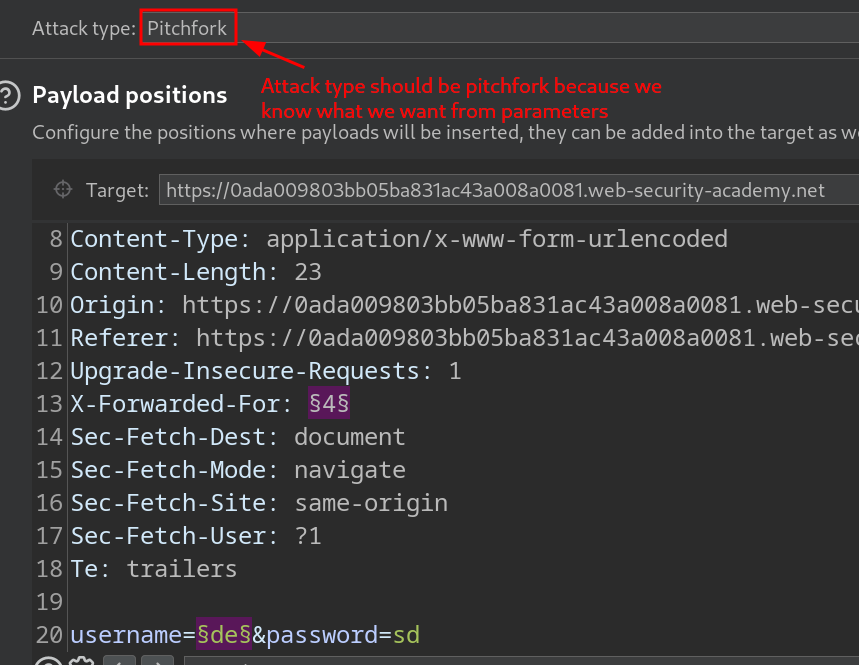
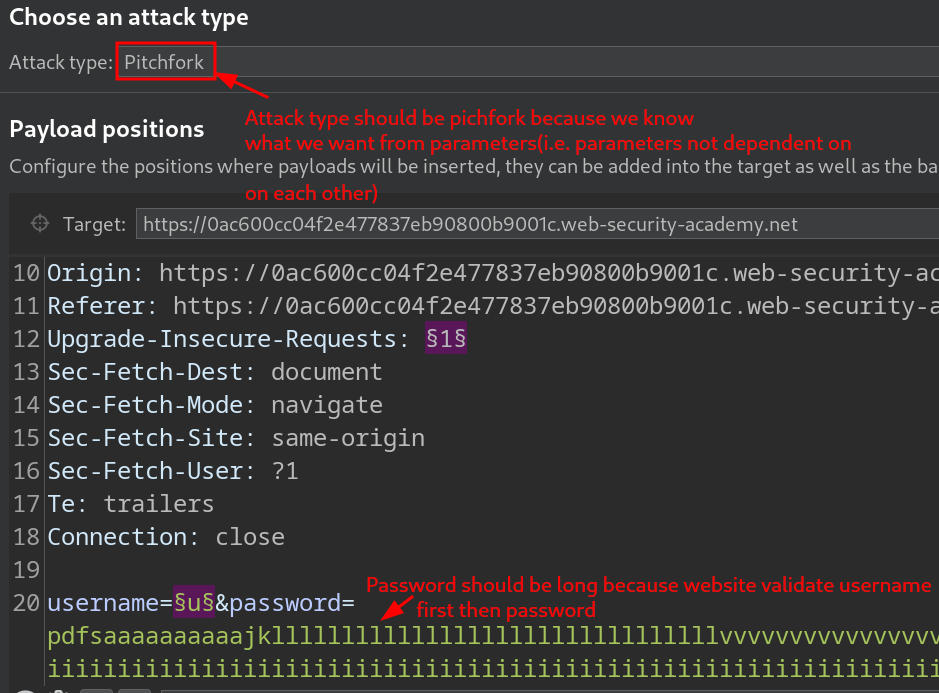
till the half of account lock(lab-5) done

Changed region(s): [[0.0, 0.0, 1.0, 1.0], [0.3329, 0.7519, 0.5146, 0.782]]

diff --git a/portswigger/Authentication/Vulnerabilities in authentication mechanisms/Vulnerabilities in password-based login/Username enumeration/Username enumeration via response timing(lab-3).md b/portswigger/Authentication/Vulnerabilities in authentication mechanisms/Vulnerabilities in password-based login/Username enumeration/Username enumeration via response timing(lab-3).md
@@ -1,4 +1,5 @@
-1. Addint **X-Forwarded-For** header to prevent server from blocking our request:
+## Pre-requisite --> [[x-forwarded-for header]]
+1. Adding **X-Forwarded-For** header to prevent server from blocking our request:
    ![[username_enumeration_via_response_timing1.png]]
 
 2. Setting up positions in intruder:
@@ -8,3 +9,20 @@
    ![[username_enumeration_via_response_timing3.png]]
 
 4. Setting up payload 2 for usernames:
+![[username_enumeration_via_response_timing4.png]]
+
+5. At the time of Attack:
+   ![[username_enumeration_via_response_timing5.png]]
+ **Result** - The correct username is arkansas.
+
+6. Now, setting up positions for the password with hard coding username as arkansas:
+![[username_enumeration_via_response_timing6.png]]
+
+7. Setting up second payload for the password:
+   ![[username_enumeration_via_response_timing7.png]]
+
+8. At the time of attack:
+   ![[username_enumeration_via_response_timing8.png]]
+   **Result** - The password is jessica. 
+
+9. login with password jessica and username arkansas.

diff --git a/portswigger/Authentication/Vulnerabilities in authentication mechanisms/Vulnerabilities in password-based login/Username enumeration/Broken brute-force protection, IP block(Lab-4).md b/portswigger/Authentication/Vulnerabilities in authentication mechanisms/Vulnerabilities in password-based login/Username enumeration/Broken brute-force protection, IP block(Lab-4).md
@@ -1,0 +1,23 @@
+1. Analysis of no. of successful attempts
+![[Broken_brute-force_protection_IP block1.png]]
+**Result** - After 3 attempts our ip get blocked by server but we take second one as a correct password after one incorrect attempt.
+
+2. Setting up password wordlist and username wordlist:
+**Password wordlist** - 
+![[Broken_brute-force_protection_IP block2.png]]
+
+**Username wordlist** - 
+![[Broken_brute-force_protection_IP block3.png]]
+
+3. Setting up positions
+   ![[Broken_brute-force_protection_IP block4.png]]
+
+4. Setting up payload for username:
+![[Broken_brute-force_protection_IP block5.png]]
+
+5. Setting up payload for password:
+   ![[Broken_brute-force_protection_IP block6.png]]
+
+6. At the time of attack:
+   ![[Broken_brute-force_protection_IP block7.png]]
+**Result** - The password of user carlos is 7777777

diff --git a/portswigger/Authentication/Vulnerabilities in authentication mechanisms/Vulnerabilities in password-based login/overview of Vulnerabilities in password-based login.md b/portswigger/Authentication/Vulnerabilities in authentication mechanisms/Vulnerabilities in password-based login/overview of Vulnerabilities in password-based login.md
@@ -4,6 +4,9 @@ For websites that adopt a password-based login process, users either register fo
 1. Brute-force attacks
 	- These attacks are typically automated using wordlists of usernames and passwords.
 	- It also involve in using basic logic or publicly available knowledge.
+	- The two most common ways of preventing brute-force attacks are:
+		- Locking the account that the remote user is trying to access if they make too many failed login attempts
+		- Blocking the remote user's IP address if they make too many login attempts in quick succession
 
 2. Brute-forcing usernames
 	- Usernames are especially easy to guess if they conform to a recognizable pattern, such as an email address. For example, business logins in the format `firstname.lastname@somecompany.com`.

diff --git a/portswigger/Authentication/Vulnerabilities in authentication mechanisms/Vulnerabilities in password-based login/Username enumeration/Username enumeration via account lock(Lab-5).md b/portswigger/Authentication/Vulnerabilities in authentication mechanisms/Vulnerabilities in password-based login/Username enumeration/Username enumeration via account lock(Lab-5).md
@@ -1,0 +1,7 @@
+1. Setting up positions for the username:
+   ![[username_enumeration via_account_lock1.png]]
+
+2. Setting up payload for username:
+   ![[username_enumeration via_account_lock2.png]]
+
+3. 
